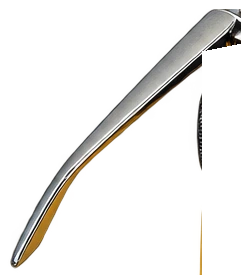
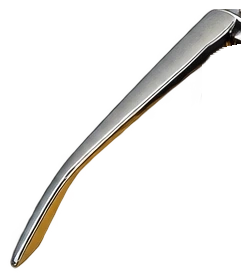
Add files via upload

Changed region(s): [[0.784, 0.3491, 0.812, 0.6109], [0.756, 0.1455, 0.896, 0.2327], [0.784, 0.7855, 0.812, 1.0]]

diff --git a/typewriter-hero.js b/typewriter-hero.js
@@ -1,5 +1,5 @@
 /* Typewriter hero. Types the Home headline + intro from the admin panel (content.js: home.h1a, h1b, intro).
-   Keys on the photo press for whatever letters are typed; the lever swings down as the page scrolls. */
+   Keys on the photo press for whatever letters are typed; the lever is pulled down at the end of each line. */
 (function(){
 'use strict';
 var NS='http://www.w3.org/2000/svg',BASE=322,CX=768,MAXW=470,reduce=matchMedia('(prefers-reduced-motion:reduce)').matches;
@@ -68,19 +68,24 @@ function start(host){
   var my=++run,alive=function(){return my===run};reset();await wait(700,alive);if(!alive())return;
   setPaper(0,1.7);await wait(2000,alive);                                   /* sheet feeds out of the roller */
   for(var k=0;k<TXT.length;k++){
-   if(k>0){if(!alive())return;setPaper(k,.45);await wait(560,alive)}        /* line feed */
+   if(k>0){if(!alive())return;pullLever();await wait(110,alive);setPaper(k,.45);await wait(620,alive)} /* lever down, paper rolls up one line */
    var t=TXT[k],el=lines.childNodes[k+1];
    for(var i=1;i<=t.length;i++){if(!alive())return;var ch=t[i-1];el.textContent=t.slice(0,i).replace(/ $/,'\u00a0');if(ch!==' ')press(ch);else press(' ');moveCaret(k);
     await wait((55+Math.random()*75+(',.'.indexOf(ch)>-1?130:0))/speed,alive)}
   }
-  caret.style.opacity=0;paper.style.transition='transform .9s ease';paper.style.transform='translateY(18px)'; /* pull the page up so the text sits in the middle */
+  caret.style.opacity=0;pullLever();await wait(110,alive);if(!alive())return;paper.style.transition='transform .9s ease';paper.style.transform='translateY(18px)'; /* last lever pull: paper rises so the text sits in the middle */
   if(!loop)return;await wait(6500,alive);if(!alive())return;hide(1.2);await wait(1800,alive);if(alive())play()}
 
- /* ---- lever: pushed down as the page scrolls up ---- */
- var cur=0,tgt=0,raf=0;
- function frame(){raf=0;cur+=(tgt-cur)*.14;if(Math.abs(tgt-cur)<.05)cur=tgt;lever.setAttribute('transform','rotate('+(-cur).toFixed(2)+' 448 248)');if(cur!==tgt)raf=requestAnimationFrame(frame)}
- function onScroll(){if(reduce)return;tgt=Math.min(1,Math.max(0,scrollY/(host.offsetHeight*.85)))*28;if(!raf)raf=requestAnimationFrame(frame)}
- addEventListener('scroll',onScroll,{passive:true});onScroll();
+ /* ---- lever: pulled down at the end of every line (carriage return), then springs back ---- */
+ function setLever(a){lever.setAttribute('transform','rotate('+(-a).toFixed(2)+' 448 248)')}
+ var lraf=0;
+ function pullLever(){var t0=performance.now(),D=180,Hd=60,R=320,MAX=28;cancelAnimationFrame(lraf);
+  (function step(now){var t=now-t0,a;
+   if(t<D){var u=t/D;a=MAX*(1-Math.pow(1-u,3))}                       /* quick pull down */
+   else if(t<D+Hd)a=MAX                                                /* held at the bottom */
+   else if(t<D+Hd+R){var v=(t-D-Hd)/R;a=MAX*(1-(v<.5?2*v*v:1-Math.pow(-2*v+2,2)/2))} /* springs back up */
+   else{setLever(0);return}
+   setLever(a);lraf=requestAnimationFrame(step)})(t0)}
 
  var go=function(){layout();if(reduce)showAll();else play()};
  (document.fonts&&document.fonts.load?document.fonts.load("27px 'Special Elite'").catch(function(){}):Promise.resolve()).then(function(){return document.fonts?document.fonts.ready:0}).then(go);
